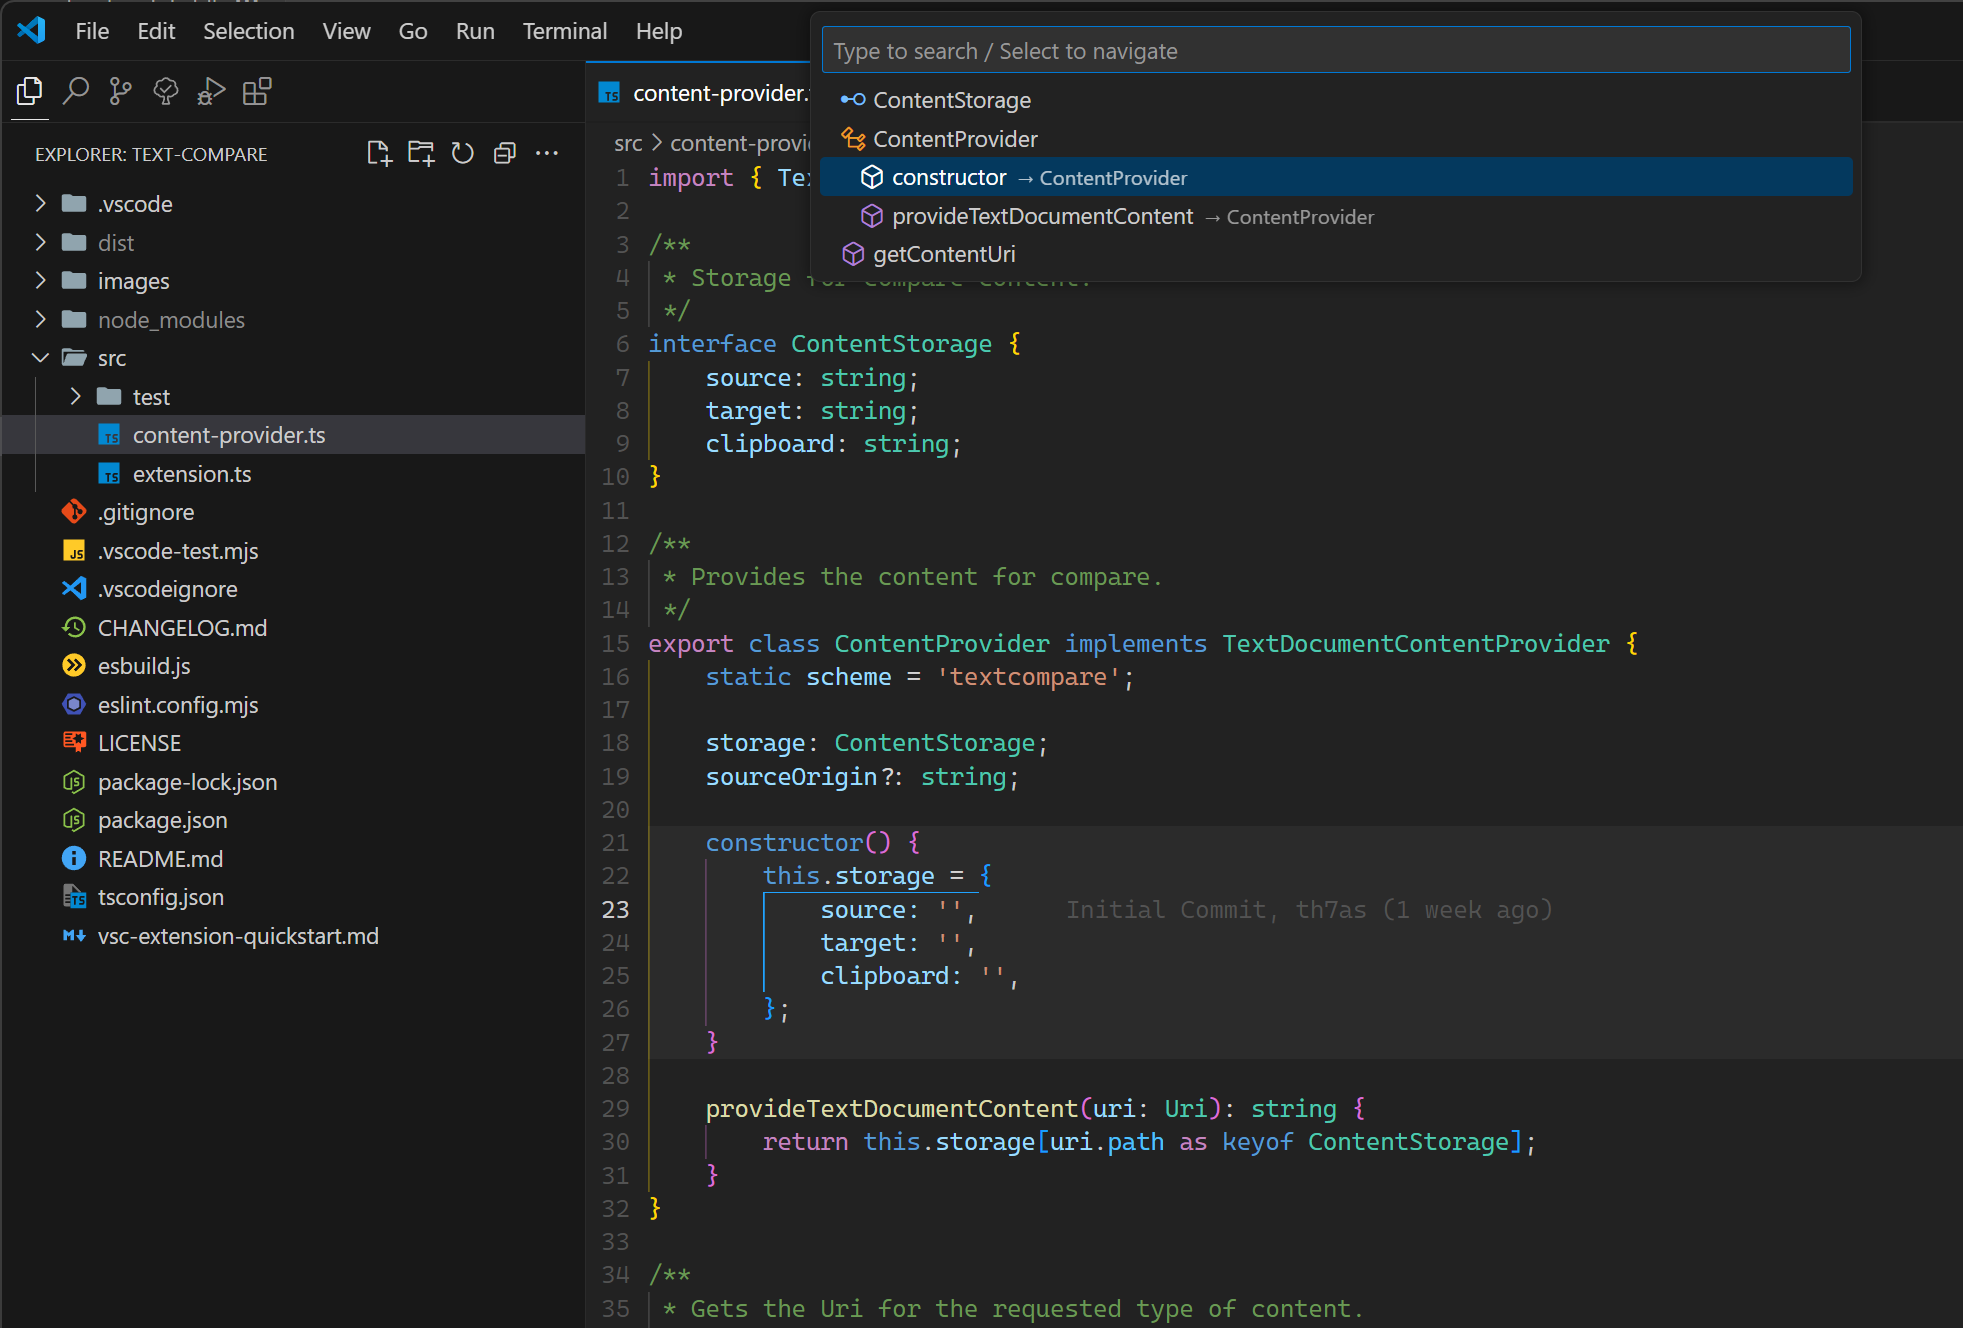
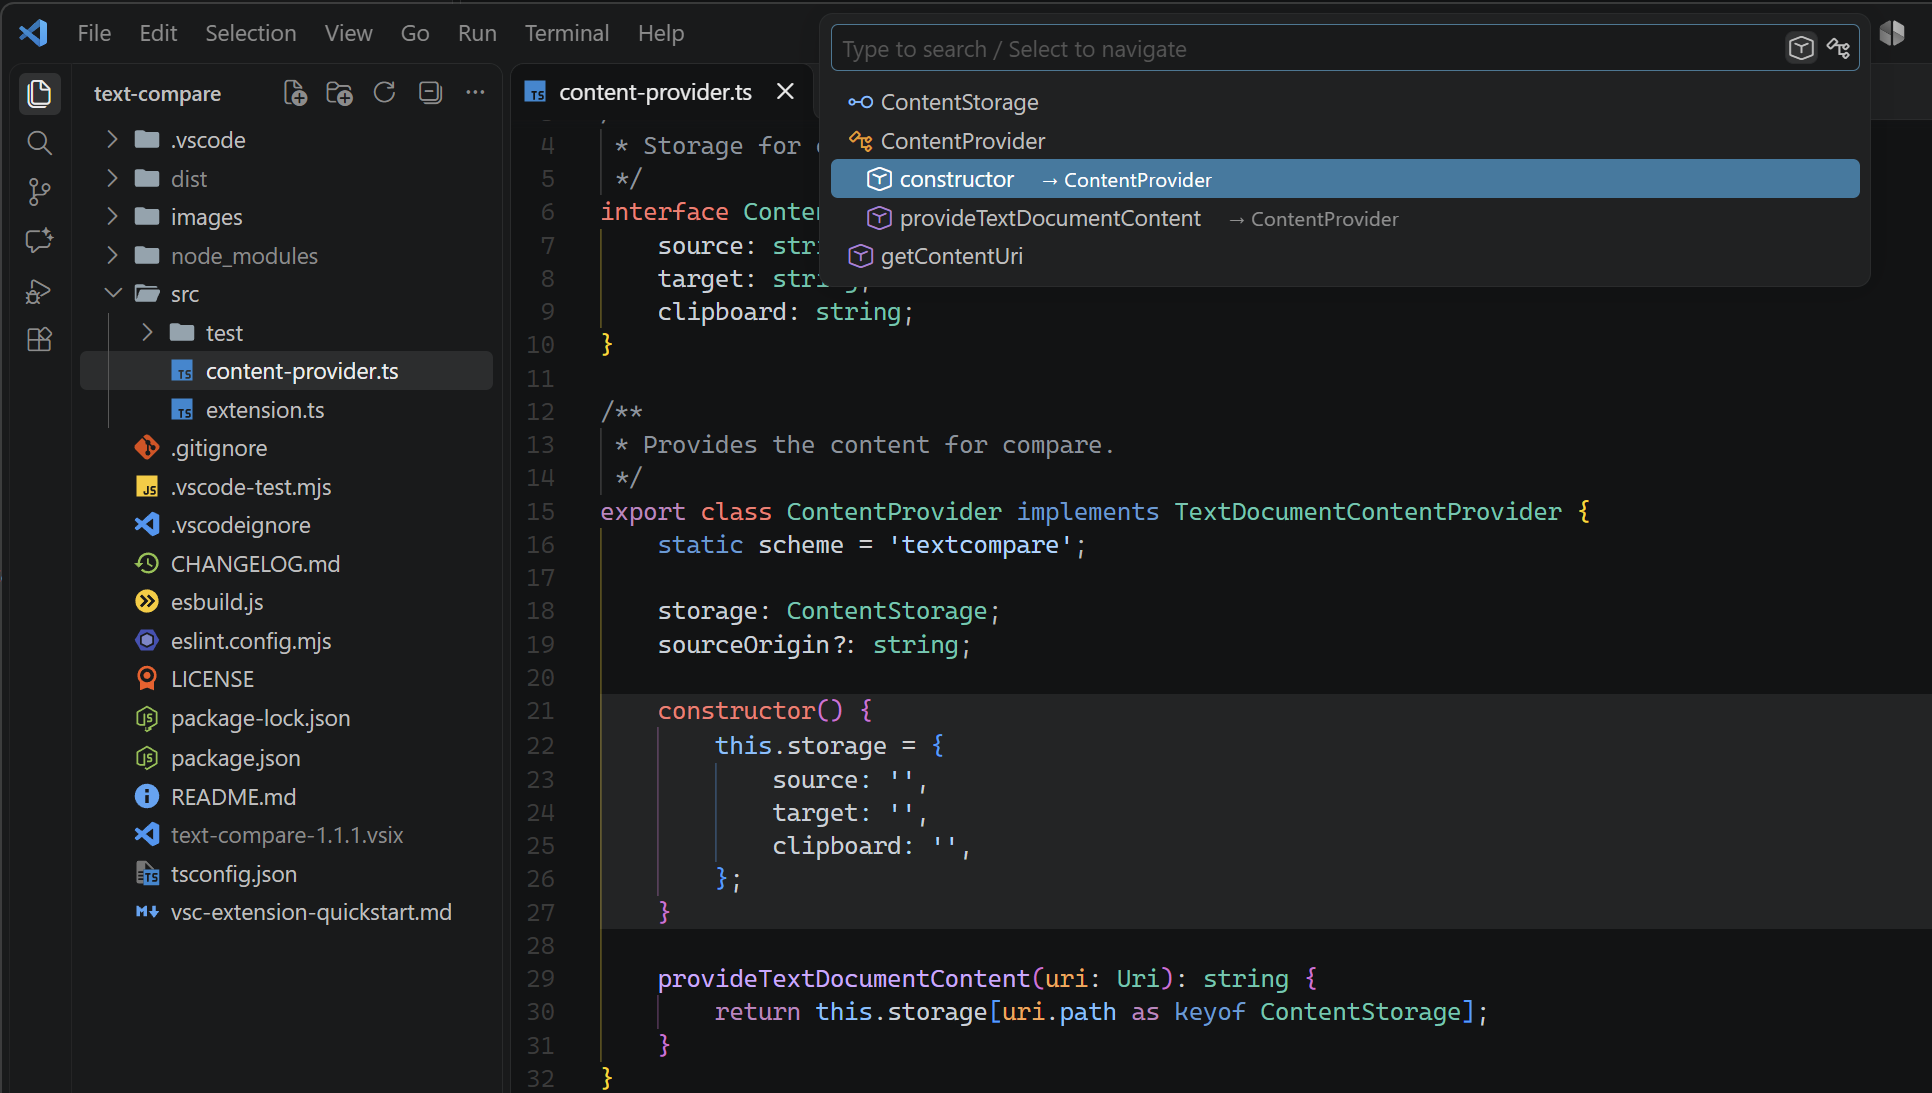
Added toggle buttons for showing and hiding items

Changed region(s): [[0.0, 0.0, 1.0, 0.9954]]

diff --git a/src/extension.ts b/src/extension.ts
@@ -89,15 +89,9 @@ async function pickDocumentSymbol(symbols: DocumentSymbol[], editor: TextEditor)
                 'Operator',
             ]);
 
-            if (!showAllFunctions) {
-                showAllFunctions = { checked: !hideNestedFuncs };
-            }
-            if (!showAllLevels) {
-                showAllLevels = { checked: maxLevels < 1 };
-            }
-            if (!showAllTypes) {
-                showAllTypes = { checked: symbolTypes.length === 0 };
-            }
+            const showAllFunctionsToggle = (showAllFunctions ??= { checked: !hideNestedFuncs });
+            const showAllLevelsToggle = (showAllLevels ??= { checked: maxLevels < 1 });
+            const showAllTypesToggle = (showAllTypes ??= { checked: symbolTypes.length === 0 });
 
             const quickPick = window.createQuickPick<DocumentSymbolPickItem>();
             quickPick.placeholder = 'Type to search / Select to navigate';
@@ -107,7 +101,7 @@ async function pickDocumentSymbol(symbols: DocumentSymbol[], editor: TextEditor)
                     iconPath: new ThemeIcon('symbol-function'),
                     tooltip: 'Show functions/methods nested under other functions/methods',
                     location: QuickInputButtonLocation.Input,
-                    toggle: showAllFunctions,
+                    toggle: showAllFunctionsToggle,
                 },
             ];
             if (maxLevels > 0) {
@@ -115,7 +109,7 @@ async function pickDocumentSymbol(symbols: DocumentSymbol[], editor: TextEditor)
                     iconPath: new ThemeIcon('expand-all'),
                     tooltip: 'Show all nested levels',
                     location: QuickInputButtonLocation.Input,
-                    toggle: showAllLevels,
+                    toggle: showAllLevelsToggle,
                 });
             }
             if (symbolTypes.length > 0) {
@@ -123,18 +117,21 @@ async function pickDocumentSymbol(symbols: DocumentSymbol[], editor: TextEditor)
                     iconPath: new ThemeIcon('symbol-class'),
                     tooltip: 'Show all symbol types',
                     location: QuickInputButtonLocation.Input,
-                    toggle: showAllTypes,
+                    toggle: showAllTypesToggle,
                 });
             }
             quickPick.buttons = toggleButtons;
 
-            quickPick.items = getDocumentSymbols(
-                symbols,
-                showAllTypes.checked ? [] : symbolTypes,
-                1,
-                showAllLevels.checked ? 0 : maxLevels,
-                !showAllFunctions.checked,
-            );
+            const createItems = () =>
+                getDocumentSymbols(
+                    symbols,
+                    showAllTypesToggle.checked ? [] : symbolTypes,
+                    1,
+                    showAllLevelsToggle.checked ? 0 : maxLevels,
+                    !showAllFunctionsToggle.checked,
+                );
+
+            quickPick.items = createItems();
 
             let activeItem = getActiveSymbol(quickPick.items, editor);
             if (activeItem) {
@@ -148,17 +145,22 @@ async function pickDocumentSymbol(symbols: DocumentSymbol[], editor: TextEditor)
 
             disposables.push(
                 quickPick.onDidTriggerButton(() => {
-                    quickPick.items = getDocumentSymbols(
-                        symbols,
-                        showAllTypes?.checked ? [] : symbolTypes,
-                        1,
-                        showAllLevels?.checked ? 0 : maxLevels,
-                        !showAllFunctions?.checked,
-                    );
-                    activeItem = getActiveSymbol(quickPick.items, editor);
+                    const previousActiveItem = quickPick.activeItems[0];
+                    const items = createItems();
+                    quickPick.items = items;
+                    activeItem = previousActiveItem
+                        ? items.find((item) => item.label === previousActiveItem.label && item.range.isEqual(previousActiveItem.range))
+                        : undefined;
+                    activeItem ??= getActiveSymbol(items, editor);
+
                     if (activeItem) {
                         decoration = revealSymbol(activeItem, editor, decoration);
                         quickPick.activeItems = [activeItem];
+                    } else {
+                        quickPick.activeItems = [];
+                        if (decoration) {
+                            editor.setDecorations(decoration, []);
+                        }
                     }
                 }),
                 quickPick.onDidChangeActive((items) => {
@@ -166,9 +168,12 @@ async function pickDocumentSymbol(symbols: DocumentSymbol[], editor: TextEditor)
                         if (firstChangeActive && !activeItem) {
                             quickPick.activeItems = [];
                         } else {
+                            activeItem = items[0];
                             decoration = revealSymbol(items[0], editor, decoration);
                         }
                         firstChangeActive = false;
+                    } else if (decoration) {
+                        editor.setDecorations(decoration, []);
                     }
                 }),
                 quickPick.onDidAccept(() => {
@@ -298,11 +303,7 @@ function revealSymbol(
     editor: TextEditor,
     decoration: TextEditorDecorationType | undefined,
 ): TextEditorDecorationType {
-    if (decoration) {
-        decoration.dispose();
-    }
-
-    decoration = window.createTextEditorDecorationType({
+    decoration ??= window.createTextEditorDecorationType({
         backgroundColor: new ThemeColor('editor.rangeHighlightBackground'),
         isWholeLine: true,
     });

diff --git a/README.md b/README.md
@@ -10,6 +10,8 @@ This extension contributes the following command:
 
 * `filteredSymbols.goToSymbolInEditor`: Search and navigate custom filtered document symbols in the active editor and pick a symbol to go to.
 
+Use the buttons on the right side to toggle the display of certain symbols related to the following settings.
+
 ## Settings
 
 This extension contributes the following settings:

diff --git a/CHANGELOG.md b/CHANGELOG.md
@@ -1,5 +1,9 @@
 # Change Log
 
+## 1.1.0
+
+- Added buttons to toggle the display of certain symbols
+
 ## 1.0.5
 
 - Updated default values for settings
